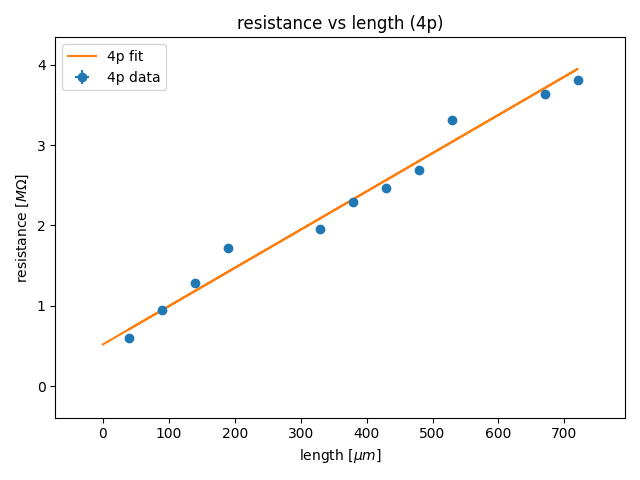
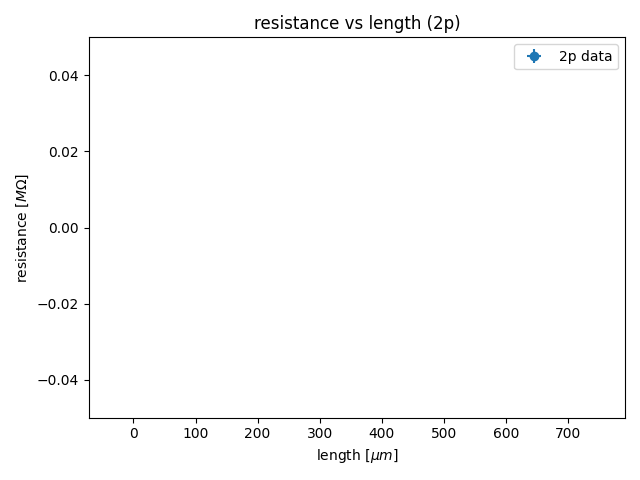
few fixes

diff --git a/analise.py b/analise.py
@@ -337,7 +337,6 @@ if __name__ == "__main__":
     # define plots to produce
     couples = [
         ["length", "resistance"],
-        ["length", "conductivity"],
     ]
     all_modes = DataHandler.MODES
     quantities = np.unique(np.array(couples).flatten())
@@ -415,17 +414,13 @@ if __name__ == "__main__":
                 fmt='o',
                 label=f'{mode} data')
             axs[i].set_xlim(factor[qx]*get_lim(x))
-            print(qx, qy)
             if qx == 'length' and qy == 'resistance' and mode == '4p':
-                print(qx, qy)
                 x = np.insert(x, 0, 0)
                 y1 = coeffs[0].nominal_value * x + coeffs[1].nominal_value
                 axs[i].plot(x*factor[qx], y1*factor[qy], '-', label=f'{mode} fit')
-            if qx == 'length' and qy == 'conductivity':
-                print(qx, qy)
-                y1 = conductivity.nominal_value*np.ones(x.shape)
-                axs[i].plot(x*factor[qx], y1*factor[qy], '-', label=f'{mode} fit')
-            axs[i].set_ylim(factor[qy]*get_lim(y, y1))
+                axs[i].set_ylim(factor[qy]*get_lim(y, y1))
+            else:
+                axs[i].set_ylim(factor[qy]*get_lim(y))
 
             axs[i].set_xlabel(label[qx])
             axs[i].set_ylabel(label[qy])
